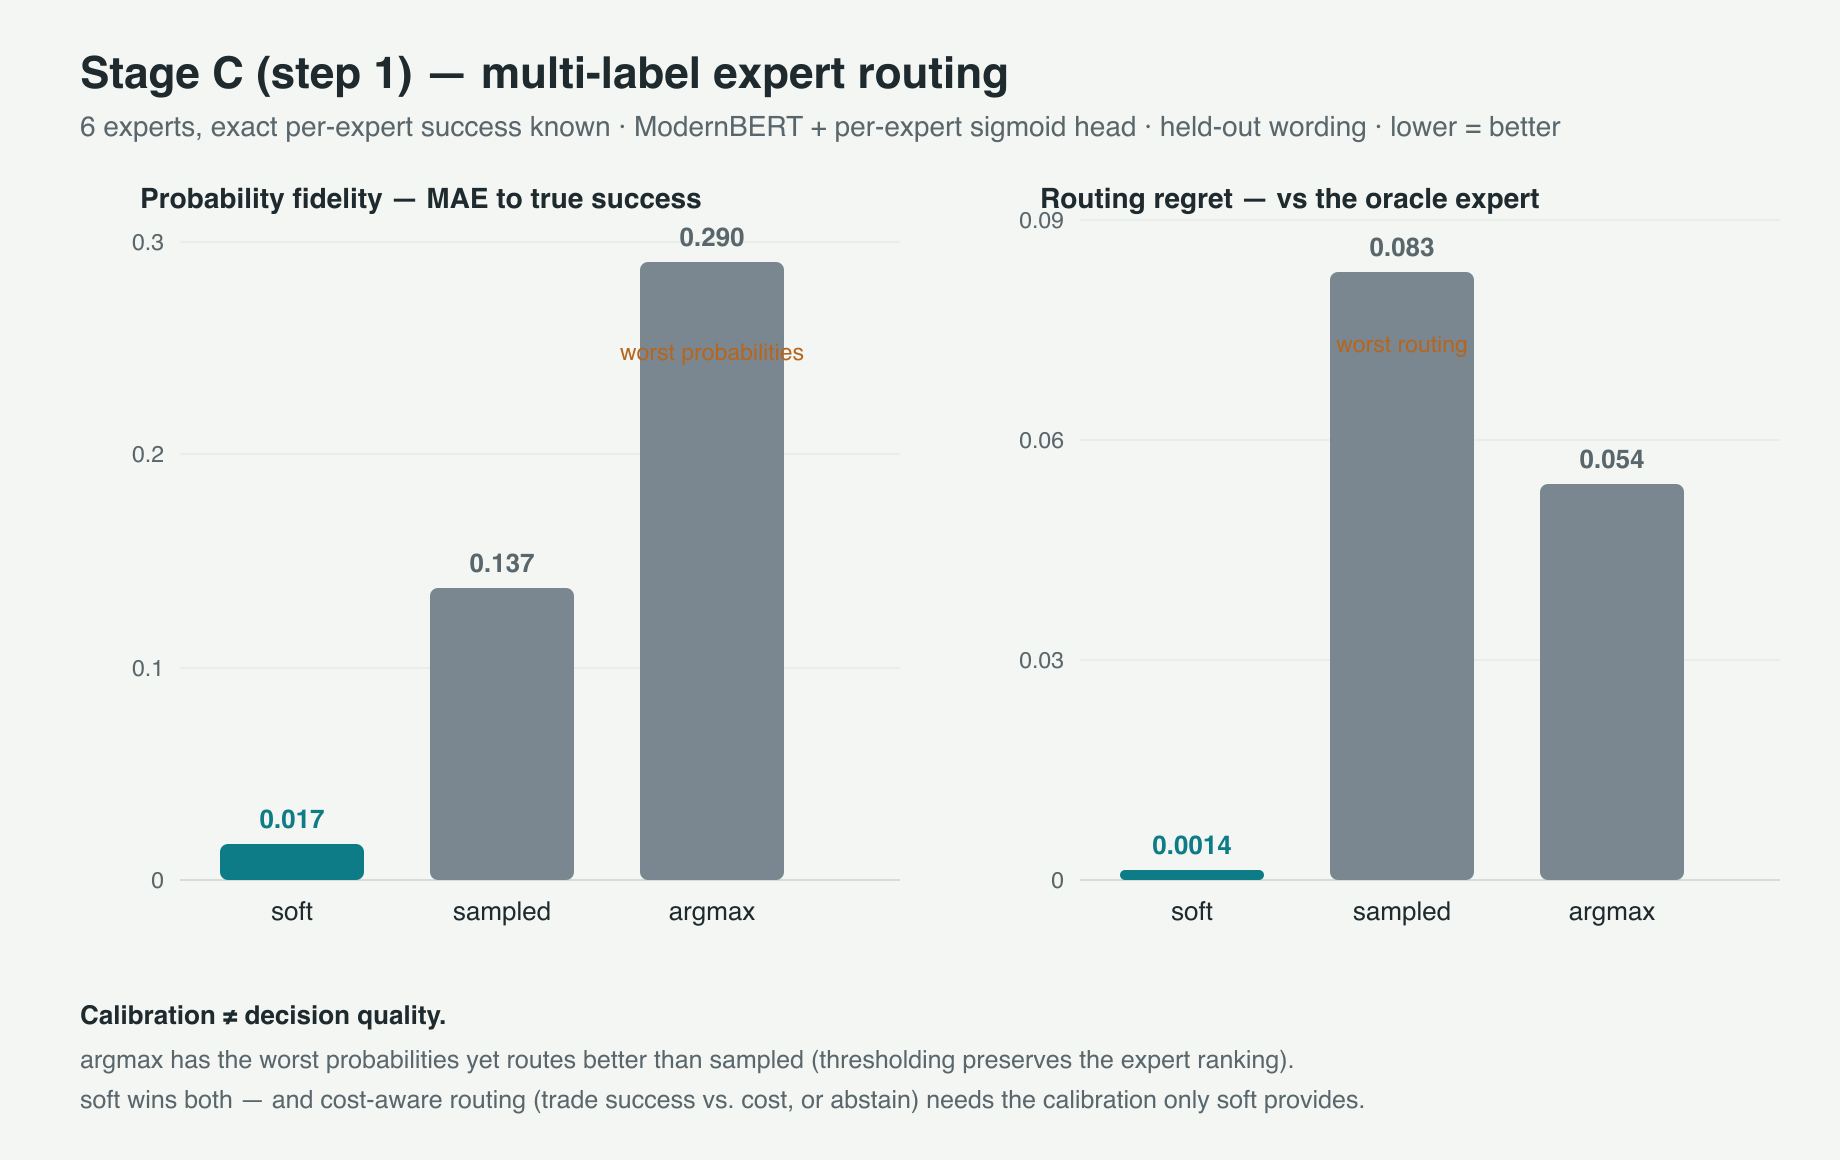
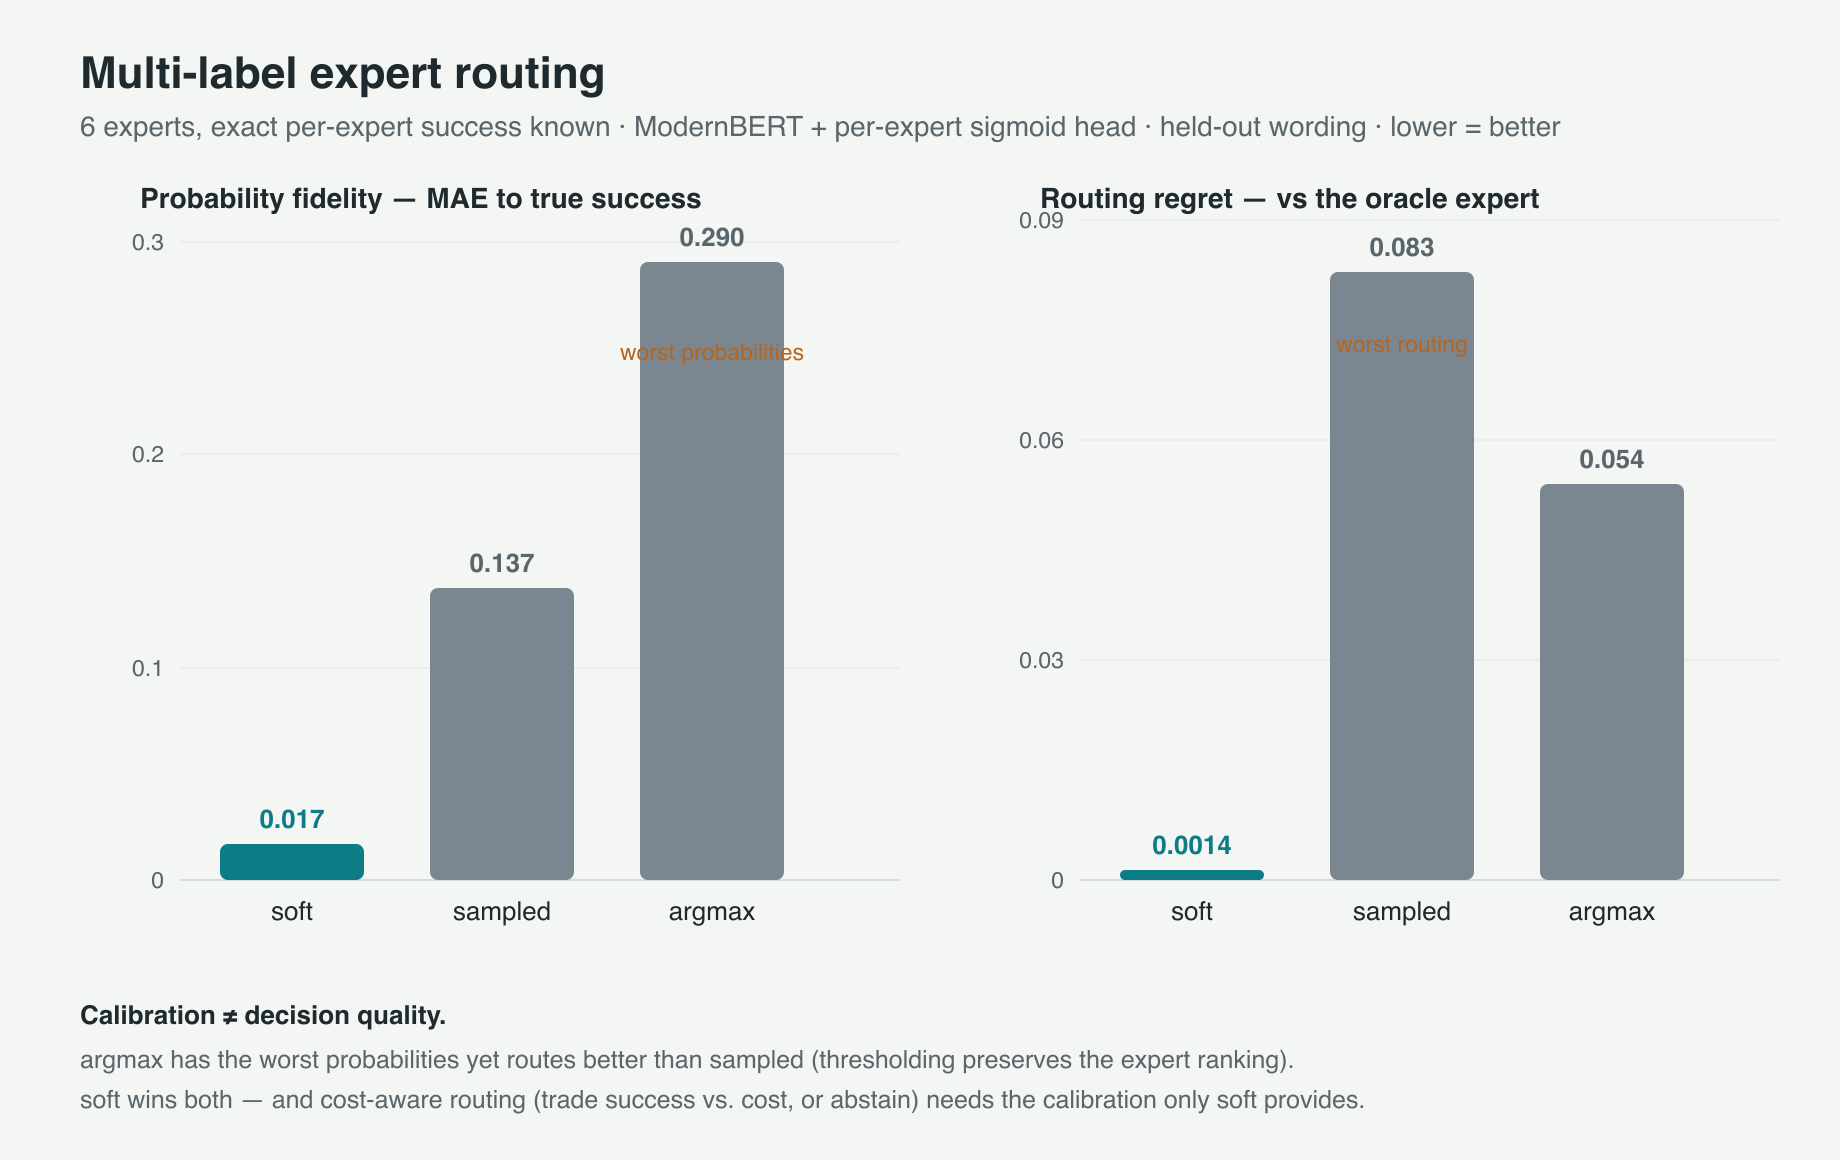
docs: add technical report (report.html); scrub 'Stage'/'JEV' text from figures; link report from README + landing

Changed region(s): [[0.031, 0.031, 0.5576, 0.0931]]

diff --git a/docs/report.html b/docs/report.html
@@ -1,0 +1,276 @@
+<title>certo — technical report</title>
+<meta name="description" content="How certo builds calibrated decision models: the method, the experiments, what we found, and the honest limits.">
+<link rel="preconnect" href="https://fonts.googleapis.com"><link rel="preconnect" href="https://fonts.gstatic.com" crossorigin>
+<link rel="stylesheet" href="https://fonts.googleapis.com/css2?family=Fraunces:opsz,wght@9..144,500;9..144,600&family=IBM+Plex+Sans:wght@400;500;600&family=IBM+Plex+Mono:wght@400;500&display=swap">
+<style>
+  :root{
+    color-scheme:light;
+    --bg:#FBFCFB; --surface:#FFFFFF; --ink:#1D2A2E; --muted:#5B6A6E; --line:#E5EAE8;
+    --accent:#0E7C86; --accent-ink:#0B6068; --clay:#B5651D;
+    --sans:"IBM Plex Sans",ui-sans-serif,-apple-system,Segoe UI,Helvetica,Arial,sans-serif;
+    --disp:"Fraunces",Georgia,serif; --mono:"IBM Plex Mono",ui-monospace,Menlo,monospace;
+  }
+  *{box-sizing:border-box}
+  body{margin:0;background:var(--bg);color:var(--ink);font-family:var(--sans);line-height:1.65}
+  .wrap{max-width:760px;margin:0 auto;padding-inline:20px}
+  a{color:var(--accent-ink)} a:hover{text-decoration:underline}
+  h1,h2,h3{font-family:var(--disp);font-weight:600;line-height:1.15;text-wrap:balance}
+  h1{font-size:clamp(34px,7vw,52px);margin:0}
+  h2{font-size:clamp(23px,4.5vw,30px);margin:0 0 4px}
+  h3{font-size:18px;margin:0 0 4px}
+  code,pre{font-family:var(--mono)}
+  .eyebrow{font-size:12px;letter-spacing:1.6px;text-transform:uppercase;color:var(--accent-ink);font-weight:600}
+  .muted{color:var(--muted)}
+  header.top{padding-block:64px 26px}
+  header.top .sub{font-size:19px;color:var(--muted);margin-top:14px;max-width:60ch}
+  .byline{color:var(--muted);font-size:14px;margin-top:18px}
+  nav.toc{border:1px solid var(--line);background:var(--surface);border-radius:14px;padding:16px 20px;margin:8px 0 8px}
+  nav.toc b{font-size:12px;letter-spacing:1.2px;text-transform:uppercase;color:var(--muted)}
+  nav.toc ol{margin:8px 0 0;padding-left:20px} nav.toc li{margin:3px 0}
+  section{padding-block:30px;border-top:1px solid var(--line)}
+  section>p,section>ul,section>ol{max-width:66ch}
+  .lead{font-weight:600;font-size:18px;color:var(--ink)}
+  figure{margin:24px 0}
+  figure img{display:block;width:100%;height:auto;border:1px solid var(--line);border-radius:12px;background:var(--surface)}
+  figcaption{color:var(--muted);font-size:13.5px;margin-top:10px}
+  figcaption b{color:var(--accent-ink);font-weight:600}
+  .callout{background:var(--surface);border:1px solid var(--line);border-left:3px solid var(--accent);
+    border-radius:10px;padding:14px 18px;margin:18px 0}
+  table{border-collapse:collapse;width:100%;font-size:14.5px;margin:16px 0}
+  th,td{text-align:left;padding:8px 10px;border-bottom:1px solid var(--line)} th{color:var(--muted);font-weight:600}
+  td.n,th.n{text-align:right;font-variant-numeric:tabular-nums}
+  .glossary dt{font-weight:600;margin-top:12px} .glossary dd{margin:2px 0 0;color:var(--muted)}
+  pre{background:var(--surface);border:1px solid var(--line);border-radius:12px;padding:16px 18px;overflow-x:auto;font-size:13px}
+  footer{border-top:1px solid var(--line);padding-block:28px 64px;color:var(--muted);font-size:13.5px}
+</style>
+
+<div class="wrap">
+  <header class="top">
+    <div class="eyebrow">technical report</div>
+    <h1>Teaching small models to say how sure they are</h1>
+    <p class="sub">How <strong>certo</strong> builds decision models whose confidence you can trust —
+      the method, the experiments, what we found, and where it breaks.</p>
+    <p class="byline">AltSlate Labs · 2026 · <a href="index.html">← project page</a> ·
+      <a href="https://github.com/AltSlate-Labs/certo">code</a></p>
+  </header>
+
+  <nav class="toc"><b>Contents</b>
+    <ol>
+      <li><a href="#tldr">The short version</a></li>
+      <li><a href="#why">Why the confidence is the hard part</a></li>
+      <li><a href="#fix">The catch, and our fix</a></li>
+      <li><a href="#recipe">How the model learns</a></li>
+      <li><a href="#findings">What we found</a></li>
+      <li><a href="#arch">How the model is built</a></li>
+      <li><a href="#terms">Terms in plain words</a></li>
+      <li><a href="#limits">Honest limits</a></li>
+      <li><a href="#next">Where it's going</a></li>
+      <li><a href="#repro">Reproduce</a></li>
+    </ol>
+  </nav>
+
+  <section id="tldr">
+    <h2>The short version</h2>
+    <p class="lead">A decision model is only useful if its confidence is trustworthy. How you
+      <em>train</em> it decides whether that's true.</p>
+    <p>We build small models that read a situation and some options and return a probability for each —
+      "route to billing, 0.86" — without generating any text. Training them on the full probability
+      distribution (not just the single "right" answer) makes the confidence honest <em>by
+      construction</em>. We prove this in worlds we generate ourselves, where the exact answer is known,
+      so we can grade the probabilities against the truth — something you can never do on real data.
+      A pretrained language model trained this way recovers the exact answer from plain English, keeps
+      its calibration on wording it never saw, and even handles options it was never trained on.</p>
+  </section>
+
+  <section id="why">
+    <h2>Why the confidence is the hard part</h2>
+    <p class="lead">Picking the answer is easy. Reporting <em>how sure you are</em>, correctly, is not.</p>
+    <p>Think of a weather forecaster. Saying "it will rain" is a decision. Saying "70% chance" is a
+      <em>calibrated</em> statement only if, across all the days she says 70%, it actually rains about
+      70&nbsp;of&nbsp;100 times. That property — the number matching reality — is what lets you act on
+      it: carry an umbrella above 60%, cancel the picnic above 90%.</p>
+    <p>A decision model earns its keep the same way. If it says "route to billing, 0.86" and the 0.86 is
+      trustworthy, you can build real rules: escalate to a human when it's under 0.8, or trade quality
+      against cost when several routes are plausible. If the number is inflated, it's worse than
+      useless — it looks confident and it's wrong.</p>
+    <div class="callout">The trap: train a model on hard labels (just the correct answer) and it still
+      <em>picks</em> well, but it becomes <strong>overconfident</strong> — it says 0.99 when it should
+      say 0.7. You then spend effort patching the confidence after the fact.</div>
+  </section>
+
+  <section id="fix">
+    <h2>The catch, and our fix</h2>
+    <p class="lead">You can't measure whether confidence is honest on real data — because you never
+      know the true odds. So we build worlds where we do.</p>
+    <p>To check the forecaster, you need many days and the actual weather. To check a model's "70%" on a
+      single case, you'd need to know the <em>true</em> probability of that case — which real data never
+      gives you. Our fix: generate the data from a small probabilistic world whose exact answer is
+      computable. We write the exam <em>and</em> the answer key. Now we can grade not just whether the
+      model picked right, but how close its whole probability distribution is to the truth.</p>
+    <p>Concretely, each example has some base rates and a few observed clues; from those, the exact
+      probability of each answer follows by Bayes' rule. We then describe the situation in plain English
+      and ask the model to recover those probabilities — and we score it against the exact answer.</p>
+  </section>
+
+  <section id="recipe">
+    <h2>How the model learns</h2>
+    <p class="lead">Generate a case with a known answer → describe it in English → have the model read it
+      and output calibrated probabilities → train against the true distribution → grade against the
+      exact answer.</p>
+    <figure>
+      <img src="assets/pipeline.png" alt="The world produces both the observable state and the exact answer; the state is rendered to English, read by the model, and turned into predicted probabilities; the exact answer trains and grades the model.">
+      <figcaption><b>What to notice:</b> the exact answer (teal) is used to <em>train</em> the model and
+        to <em>grade</em> it — but the model itself only ever reads the English text; it never sees the
+        answer key.</figcaption>
+    </figure>
+    <p>The one training choice that matters is the <em>target</em>. Three ways to set it:</p>
+    <ul>
+      <li><strong>Soft</strong> — train against the full probability distribution (e.g. 0.66 / 0.09 / 0.25).</li>
+      <li><strong>Sampled</strong> — draw one label from that distribution each time (a fair coin weighted by it).</li>
+      <li><strong>Winner-only</strong> — always train on the single most likely answer.</li>
+    </ul>
+    <p>Soft targets are a "proper scoring rule": the loss is smallest exactly when the model's
+      probabilities equal the truth. That's the calibration-by-construction lever.</p>
+  </section>
+
+  <section id="findings">
+    <h2>What we found</h2>
+
+    <h3>1 · Training on the full distribution recovers the exact answer from English</h3>
+    <p>A pretrained language model (ModernBERT) trained on soft targets recovers the exact probabilities
+      from prose to within a whisker — and it does so on <em>wording it never saw in training</em>, which
+      means it learned to reason about the situation, not memorize phrasings. Training on a single label
+      (winner-only or sampled) fails badly — landing near "ignore the evidence and guess the base rate."</p>
+    <figure>
+      <img src="assets/fidelity.png" alt="Distance to the exact answer by training target, log scale: soft ~0.004, single-label targets 0.6 to 0.7, near the ignore-evidence baseline of 0.605.">
+      <figcaption><b>What to notice:</b> soft sits far below the "ignore the evidence" line; both
+        single-label targets sit at it. Lower is better; the scale is logarithmic.</figcaption>
+    </figure>
+
+    <h3>2 · The result is robust; the single-label failures are not a fluke</h3>
+    <p>Across repeated runs, soft is consistently near-perfect and the single-label targets consistently
+      fail. (Which single-label target is <em>worse</em> flips run to run — they're both just bad, so we
+      don't rank them.)</p>
+    <figure>
+      <img src="assets/robustness.png" alt="Distance to the exact answer across three seeds: soft clusters near 0.005 every time; single-label targets scatter between 0.6 and 1.1.">
+      <figcaption><b>What to notice:</b> soft's points are a tight low cluster; the single-label points
+        scatter high. The robust claim is "soft beats single-label," not a precise ordering of the two
+        failures.</figcaption>
+    </figure>
+
+    <h3>3 · Hardening to the winner wrecks the probabilities while the accuracy barely moves</h3>
+    <p>This is the headline. With a small reference model that can represent the answer exactly, training
+      on winner-only labels gives <strong>almost the same accuracy</strong> as soft — but its probability
+      error is roughly a thousand times larger. The decision looks fine; the confidence is a lie. (On
+      bigger models, winner-only training also starts to hurt accuracy, not just confidence.)</p>
+
+    <h3>4 · The model learns clues that only matter in combination</h3>
+    <p>We built a harder world where clues carry no information alone — only their <em>combination</em>
+      identifies the answer (like a lock that needs two dials together). A model that adds up clues one
+      at a time provably can't solve it; the model that reads them jointly does, recovering the exact
+      answer where the additive rule is stuck near "ignore the evidence."</p>
+
+    <h3>5 · It generalizes to options it was never trained on</h3>
+    <p>For a <em>general</em> decision model, the options can't be fixed in advance — they arrive at
+      request time, described in words. We trained the model to score options from their descriptions,
+      and tested it on options, names, wording, <em>and counts</em> it had never seen. It generalizes:
+      it learned the rule ("match the evidence to each option's description"), not a fixed list of
+      classes. Calibration is somewhat looser here than in the fixed-option setting — reading arbitrary
+      descriptions is a harder job — but it holds.</p>
+
+    <h3>6 · For real decisions, calibration is what makes cost-aware choice work</h3>
+    <p>We tried a routing task: several experts, each with an independent chance of succeeding; pick the
+      best. Here calibration and decision quality come apart cleanly.</p>
+    <figure>
+      <img src="assets/routing.png" alt="Two panels: probability error (winner-only worst) and routing regret (sampled worst); soft is best on both.">
+      <figcaption><b>What to notice:</b> winner-only training has the <em>worst probabilities</em> yet
+        routes better than sampled (thresholding preserves the ranking) — but only soft, with honest
+        probabilities, supports <em>cost-aware</em> routing (trade success against cost, or abstain when
+        unsure). Soft wins both panels.</figcaption>
+    </figure>
+
+    <h3>7 · A caveat we tested: rescaling helps, but doesn't fully fix it</h3>
+    <p>The standard patch for overconfidence is "temperature scaling" — divide the scores by a constant
+      fit afterward. It removes most of the winner-only model's overconfidence, but the repaired
+      probabilities are still far worse than a model trained soft from the start. Overconfidence is
+      partly a uniform sharpness (fixable) and partly per-case error (not fixable by one knob). Better to
+      train it right than to patch it.</p>
+  </section>
+
+  <section id="arch">
+    <h2>How the model is built</h2>
+    <p class="lead">Read the situation once; score each option from its own description; combine
+      independently.</p>
+    <figure>
+      <img src="assets/architecture.png" alt="The state text is read by the encoder; per-class or per-option queries read the encoder to produce a score each; a question is a grouping of those scores turned into probabilities.">
+      <figcaption><b>What to notice:</b> because each option is scored on its own, reordering the options
+        or adding new ones doesn't change the others' scores — a structural guarantee, not something the
+        model has to learn. (This same independence is a limitation for "best of this set" comparisons —
+        see limits.)</figcaption>
+    </figure>
+    <p>The model is a small pretrained text encoder plus a lightweight scoring head. It's
+      <em>non-generative</em>: it produces typed probabilities in one pass, not text you have to parse.
+      It supports four output shapes — a single choice (with a "none of these" option), yes/no, an
+      ordered score, and independent yes/no across several options (for routing).</p>
+  </section>
+
+  <section id="terms">
+    <h2>Terms in plain words</h2>
+    <dl class="glossary">
+      <dt>Calibration</dt><dd>Whether the stated confidence matches reality: of all the "70%" calls, about 70% come true.</dd>
+      <dt>Posterior / true distribution</dt><dd>The actual probability of each answer given the clues — our "answer key."</dd>
+      <dt>Posterior fidelity (KL / TV)</dt><dd>How far the model's probabilities are from the true ones. Zero is perfect; smaller is better.</dd>
+      <dt>Soft vs hard targets</dt><dd>Soft = train on the whole probability distribution; hard = train on a single label.</dd>
+      <dt>Runtime option</dt><dd>A choice supplied at request time, described in words — not fixed when the model was trained.</dd>
+      <dt>Abstain / escalate</dt><dd>Choosing not to decide (hand off to a human) when confidence is low — only safe if confidence is calibrated.</dd>
+    </dl>
+  </section>
+
+  <section id="limits">
+    <h2>Honest limits</h2>
+    <ul>
+      <li><strong>These results are from worlds we generate.</strong> They prove the method and let us
+        measure calibration exactly; they are not a claim about any particular real-world task yet.</li>
+      <li><strong>A small model is calibrated, not omniscient.</strong> Decisions needing world knowledge
+        (science questions, commonsense) are capped by the encoder's size — good calibration doesn't add
+        knowledge.</li>
+      <li><strong>Generalizing to new wording and new options is not the same as new <em>rules</em>.</strong>
+        Handling unfamiliar phrasing is easier than handling unfamiliar decision criteria; the harder
+        test (whole new rule families) is future work.</li>
+      <li><strong>Independent option scoring is a feature and a limit.</strong> It guarantees stable
+        probabilities, but it's too rigid for "which of these is best" comparisons where options should
+        influence each other.</li>
+      <li><strong>Without a teacher, real data gives one label per case</strong> — the setting where a
+        capable model tends to become overconfident. Getting calibrated targets on real domains means
+        either simulating them (our strength) or collecting several labels per case.</li>
+    </ul>
+  </section>
+
+  <section id="next">
+    <h2>Where it's going</h2>
+    <p>The next version aims at a more <em>general</em> decision model: a corpus that mixes rules we
+      generate ourselves (the real breadth engine), our known-answer worlds, and a careful selection of
+      public decision datasets — with strict provenance, licensing, and leakage controls, and evaluation
+      that holds out entire rule families, not just wording. A larger backbone is on the table for the
+      knowledge-heavy tasks. The small model stays the default; bigger is an option, not a requirement.</p>
+    <p class="muted">Related work: the runtime-option classifier family (GLiClass, GLiNER, and open
+      decision-model rebuilds) established the <em>mechanism</em> of scoring options in one pass; certo's
+      contribution is calibration by construction on top of it.</p>
+  </section>
+
+  <section id="repro">
+    <h2>Reproduce</h2>
+    <pre>python datagen.py selftest             # verify the synthetic world (exact answers)
+python train.py compare                # target types, graded on distance to the exact answer
+python train_text.py run  --arm soft   # recover the answer from English
+python train_generic.py run --arm soft # generic runtime-option model</pre>
+    <p>Code: <a href="https://github.com/AltSlate-Labs/certo">github.com/AltSlate-Labs/certo</a> ·
+       Dataset: <a href="https://huggingface.co/datasets/rajpdus/certo-synthetic-decisions">certo-synthetic-decisions</a></p>
+  </section>
+
+  <footer>
+    <p>certo — a research toolkit for calibrated decision models. Results are measured in controlled,
+      known-answer worlds; real-world validation is ongoing. Inspired by Jev / System-1 decision models;
+      independent, not affiliated with TypeSafe. MIT License.</p>
+  </footer>
+</div>

diff --git a/docs/index.html b/docs/index.html
@@ -79,7 +79,8 @@
       <span class="badge">MIT</span>
       <span class="badge">non-generative · typed probabilities</span>
     </div>
-    <p class="muted" style="margin-top:14px;font-size:13.5px">Inspired by Jev / “System-1” decision models. Independent project — not affiliated with TypeSafe.</p>
+    <p style="margin-top:18px"><a href="report.html" style="color:var(--accent-ink);font-weight:600;text-decoration:none">Read the technical report →</a></p>
+    <p class="muted" style="margin-top:10px;font-size:13.5px">Inspired by Jev / “System-1” decision models. Independent project — not affiliated with TypeSafe.</p>
   </header>
 
   <section>

diff --git a/README.md b/README.md
@@ -20,7 +20,8 @@ calibration is by construction rather than patched on afterward.
 > packaged `pip install certo` interface (inference API, checkpoint save/load, tuning helpers) and a
 > demo checkpoint are in progress — see [Roadmap](#roadmap).
 
-Project page & technical report: **https://altslate-labs.github.io/certo/** ·
+Project page: **https://altslate-labs.github.io/certo/** ·
+Technical report: **https://altslate-labs.github.io/certo/report.html** ·
 Synthetic dataset: **https://huggingface.co/datasets/rajpdus/certo-synthetic-decisions**
 
 Inspired by Jev / "System-1" decision models. Independent project — **not affiliated with TypeSafe**.
@@ -56,7 +57,7 @@ Measured against the exact answer on **held-out wording**; lower KL is better.
 ![posterior fidelity](docs/assets/fidelity.png)
 ![routing](docs/assets/routing.png)
 
-The full method, experiments, and honest limitations are in the **[technical report](https://altslate-labs.github.io/certo/)**.
+The full method, experiments, and honest limitations are in the **[technical report](https://altslate-labs.github.io/certo/report.html)**.
 
 ## Reproduce
 
